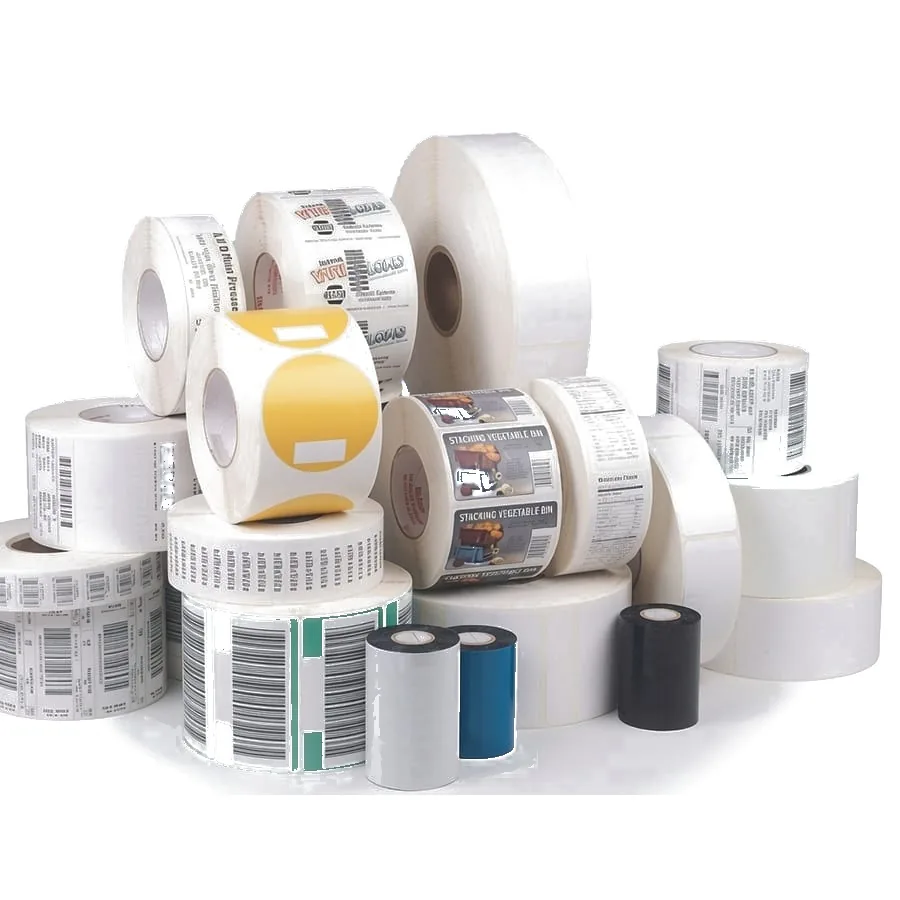
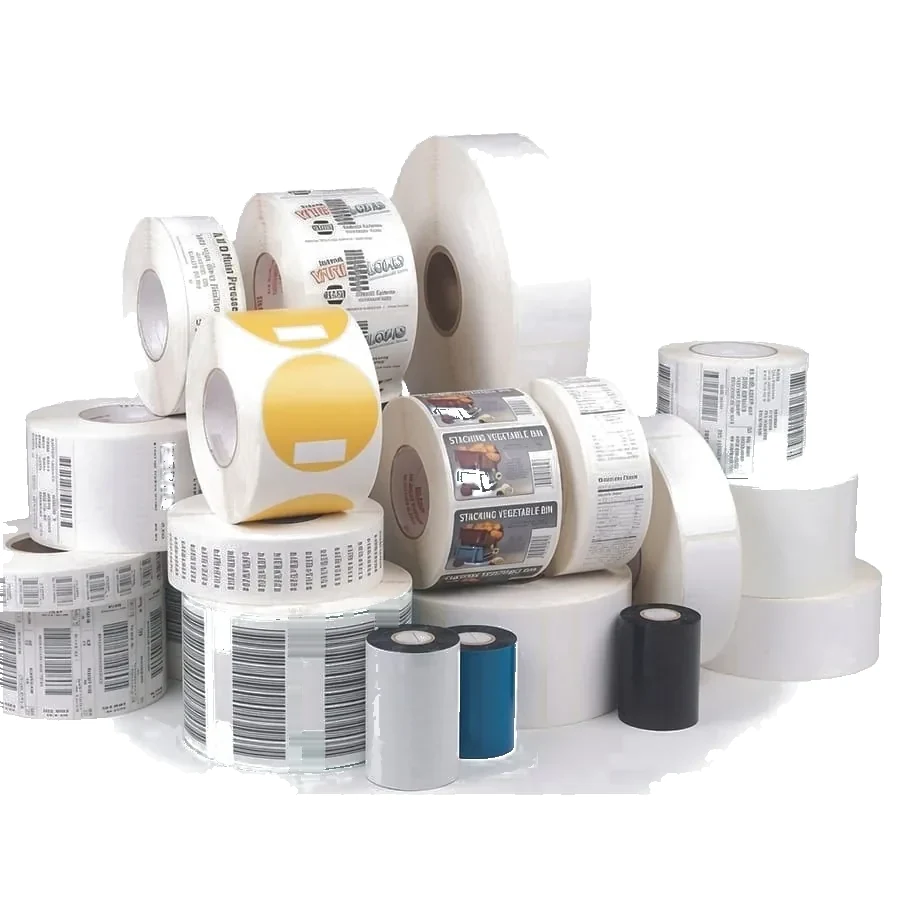
A talajárnyék lekerül a két Minilase-ról és a címkés képről (#227)
A gyártói fotókon a gép egy világosszürke „padlón" áll, és vet rá egy
elmosódó árnyékot. A weblapon viszont a termékkép fehér csempén ül, így az
árnyék nem talajt idéz, hanem piszkos foltnak látszik a csempe sarkában.

Küszöböléssel nem megy: az árnyék szürkéje (190–250) pontosan ugyanabba a
tartományba esik, mint a gép fehér burkolata (209–237) — a burkolat egy része
sötétebb, mint az árnyék világosabb része. Amiben viszont különböznek: az
árnyék SIMA, képpontonként néhány szintnyi változással, a gép körvonala
ezzel szemben lépcső. Ezért nem a fényesség, hanem a meredekség a határ: a
kitöltés a sima szürkén átfolyik, a gép élén megáll.

A küszöböt mérve állítottam be, nem becsülve. A burkolat bal oldalán van egy
képpontnyi lágy szakasz; 8-as küszöbnél a kitöltés ott beszökött a gépbe, és
kifehérítette az egész házat. 6-nál a gép épen marad.

A címketekercsek halmazánál ugyanez a küszöb már a tekercsekbe harapott —
fehér tekercs fehér háttéren, lágy körvonallal. Ott 3 a legtöbb, ami még kárt
nem tesz; ez a külső árnyékudvart viszi el. A tekercsek KÖZÖTTI árnyék marad,
mert azt semmilyen mérhető tulajdonság nem választja el a tekercsektől.

Ugyanezen a képen a vonalkódos tekercs oldalán négy türkiz téglalap állt.
A tekercs henger, a rajta lévő címkék a görbületet követik — ezek a foltok
viszont tengelyre állított, éles sarkú téglalapok voltak, fehér glóriával:
egy összemásolás maradványa, nem a címkék nyomata. A helyükre a saját soruk
[…]

diff --git a/scripts/talaj-arnyek-eltavolitas.py b/scripts/talaj-arnyek-eltavolitas.py
@@ -1,0 +1,121 @@
+#!/usr/bin/env python3
+"""
+Padlóárnyék eltávolítása termékfotóról.
+
+A gyártói fotók egy részén a gép egy világosszürke „padlón" áll, és vet rá
+egy elmosódó árnyékot. A weblapon viszont a termékkép fehér csempén ül, így
+az árnyék nem talajt idéz, hanem piszkos foltnak látszik a kép sarkában.
+
+Miért nem elég küszöbölni: az árnyék szürkéje (190–250) pontosan ugyanabba a
+tartományba esik, mint a gép fehér burkolata (209–237). Fényesség alapján a
+kettő nem választható szét — a burkolat egy része sötétebb, mint az árnyék
+világosabb része.
+
+Amiben viszont különböznek: az árnyék SIMA. Elmosódó átmenet, képpontonként
+néhány szintnyi változással. A gép körvonala ezzel szemben lépcső: a fehér
+háttérről 255-ről 226-ra esik egy-két képpont alatt. Ezért nem a fényesség,
+hanem a MEREDEKSÉG a határ — a kitöltés a sima szürkén átfolyik, a gép élén
+megáll.
+"""
+import sys
+from pathlib import Path
+
+import numpy as np
+from PIL import Image
+from scipy import ndimage
+
+# Efölött a fényesség fölött lehet háttér vagy árnyék. A gép legsötétebb
+# burkolatrésze 209, tehát a küszöb nem mehet feljebb 200-nál sem, mert akkor
+# a burkolatot is elnyelné — 185 kényelmes tartalékot hagy.
+VILAGOS_KUSZOB = 185
+# Efölött a meredekség fölött él van, ott a kitöltés megáll. Az árnyék belső
+# meredeksége 0–4, a gép körvonaláé 15–50. A 6 azért nem 8 vagy 10: a burkolat
+# bal oldalán van egy képpontnyi lágy szakasz (249-es érték, 0,8 meredekség),
+# amin a magasabb küszöbű kitöltés beszökött a gépbe, és kifehérítette az egész
+# házat. Mérve, nem becsülve: 8-nál a burkolat eltűnt, 6-nál épen maradt.
+EL_KUSZOB = 6
+# A gát egy képpontnyi réseit összezárjuk, hogy a lágy szakaszok ne engedjék át
+# a kitöltést.
+GAT_ZARAS = 1
+# A megmaradó él-képpontokat ennyivel tágítjuk, hogy az árnyék pereme se
+# maradjon ott halvány keretként.
+PEREM_TAGITAS = 2
+
+
+def arnyek_nelkul(kep: Image.Image, el_kuszob: int = EL_KUSZOB) -> Image.Image:
+    a = np.asarray(kep.convert('RGB')).astype(np.int16)
+    vilagossag = a.max(2).astype(float)
+
+    # Meredekség: a két irányú különbség nagysága.
+    dy = ndimage.sobel(vilagossag, 0)
+    dx = ndimage.sobel(vilagossag, 1)
+    meredek = np.hypot(dx, dy) / 4.0
+
+    # A gát: sötét képpont vagy él. Ezen a kitöltés nem jut át.
+    gat = (vilagossag < VILAGOS_KUSZOB) | (meredek >= el_kuszob)
+    if GAT_ZARAS:
+        gat = ndimage.binary_closing(gat, np.ones((3, 3)), iterations=GAT_ZARAS)
+
+    # Kitöltés a kép szélétől: ami innen elérhető, az háttér vagy árnyék.
+    cimke, _ = ndimage.label(~gat)
+    szeli = set(cimke[0].tolist()) | set(cimke[-1].tolist())
+    szeli |= set(cimke[:, 0].tolist()) | set(cimke[:, -1].tolist())
+    szeli.discard(0)
+    hatter = np.isin(cimke, list(szeli))
+
+    # Az árnyék pereme meredekebb, mint a belseje, ezért kimarad a kitöltésből
+    # és halvány keretként ottmaradna. A háttérré nyilvánított területet ezért
+    # kitágítjuk — de csak olyan képpontokra, amik maguk is világosak.
+    tagitott = ndimage.binary_dilation(hatter, iterations=PEREM_TAGITAS)
+    hatter = tagitott & (vilagossag >= VILAGOS_KUSZOB)
+
+    ki = a.copy()
+    ki[hatter] = 255
+
+    # Takarítás: az árnyék pereme néhány vékony csíkban és pontban túléli a
+    # kitöltést, mert a saját meredeksége zárta el az utat. Ezek a maradványok
+    # nem érnek hozzá a géphez, tehát elég a legnagyobb összefüggő nem-fehér
+    # területet — magát a gépet — megtartani, a többit kifehéríteni.
+    marad = np.asarray(ki).max(2) < 250
+    cimke2, db = ndimage.label(marad, np.ones((3, 3)))
+    if db > 1:
+        meretek = ndimage.sum(marad, cimke2, range(1, db + 1))
+        gep = int(np.argmax(meretek)) + 1
+        ki[marad & (cimke2 != gep)] = 255
+
+    return Image.fromarray(ki.astype(np.uint8))
+
+
+def main(ervek: list[str]) -> None:
+    """Használat: talaj-arnyek-eltavolitas.py [--el N] kép.webp …
+
+    Az `--el` a fenti EL_KUSZOB felülírása. Azért állítható, mert a küszöböt a
+    kép tárgya szabja meg: a magányos, sötét részekkel bíró gépnél 6 a jó
+    érték, a fehér címketekercsek halmazánál viszont már 4-nél is beleharap a
+    kitöltés a tekercsekbe — ott 3 a legtöbb, ami még kárt nem tesz.
+    """
+    el = EL_KUSZOB
+    utvonalak = []
+    i = 0
+    while i < len(ervek):
+        if ervek[i] == '--el':
+            el = int(ervek[i + 1])
+            i += 2
+        else:
+            utvonalak.append(ervek[i])
+            i += 1
+
+    for u in utvonalak:
+        p = Path(u)
+        eredeti = Image.open(p)
+        elotte = np.asarray(eredeti.convert('RGB')).astype(int)
+        uj = arnyek_nelkul(eredeti, el)
+        utana = np.asarray(uj).astype(int)
+        valtozott = (elotte != utana).any(2).sum()
+        uj.save(p, 'WEBP', quality=88, method=6)
+        print(f'{p.name} (él={el}): {valtozott} képpont fehérre '
+              f'({valtozott / elotte[..., 0].size * 100:.1f}%), {p.stat().st_size / 1024:.1f} kB')
+
+
+if __name__ == '__main__':
+    main(sys.argv[1:])

diff --git a/scripts/cimke-kep-zoldfolt.py b/scripts/cimke-kep-zoldfolt.py
@@ -1,0 +1,81 @@
+#!/usr/bin/env python3
+"""
+A „Címkék és festékszalagok" kép vonalkódos tekercsén lévő műtermék javítása.
+
+Mit lát a látogató: a tekercs oldalán négy türkiz téglalap. Miért hiba: a
+tekercs henger, a rajta lévő címkék a görbületet követik — a türkiz foltok
+viszont tengelyre állított, éles sarkú téglalapok, körülöttük fehér glóriával.
+Nem a címkék nyomata, hanem utólag a képre illesztett folt: egy összemásolás
+maradványa.
+
+A javítás: a foltokat a saját soruk két oldalán lévő ép képpontokból töltjük
+ki. Ezek a foltok egy függőleges, nyomatlan sávban ülnek a tekercsen, tehát a
+kitöltés eredménye sima világosszürke csík — pontosan az, aminek ott lennie
+kell: a címkeszalag nyomatlan margója.
+
+A maszkot három képponttal tágítjuk, mert a foltok körüli fehér glória is a
+műtermék része; nélküle a folt eltűnne, a kerete viszont ottmaradna.
+"""
+import sys
+from pathlib import Path
+
+import numpy as np
+from PIL import Image
+from scipy import ndimage
+
+MASZK_TAGITAS = 3
+SIMITAS = 1.2
+
+
+def zoldfolt_maszk(a: np.ndarray) -> np.ndarray:
+    r, g, b = a[..., 0], a[..., 1], a[..., 2]
+    # Türkiz: a zöld csatorna érdemben a vörös fölött van, és a kék fölött is.
+    # A felső korlát azért kell, hogy a fényes fehér ne kerüljön bele.
+    zold = (g > r + 15) & (g > b + 5) & (g > 80) & (g < 200)
+    return ndimage.binary_dilation(zold, np.ones((3, 3)), iterations=MASZK_TAGITAS)
+
+
+def javit(kep: Image.Image) -> Image.Image:
+    a = np.asarray(kep.convert('RGB')).astype(float)
+    maszk = zoldfolt_maszk(a)
+    if not maszk.any():
+        return kep.convert('RGB')
+
+    ki = a.copy()
+    sorok = np.where(maszk.any(1))[0]
+    for y in sorok:
+        sor = maszk[y]
+        ep = np.where(~sor)[0]
+        if not ep.size:
+            continue
+        for x in np.where(sor)[0]:
+            bal = ep[ep < x]
+            jobb = ep[ep > x]
+            minta = []
+            if bal.size:
+                minta.append(a[y, bal[-1]])
+            if jobb.size:
+                minta.append(a[y, jobb[0]])
+            if minta:
+                ki[y, x] = np.mean(minta, 0)
+
+    # A soronkénti kitöltés függőlegesen csíkos lehet; a foltok BELSEJÉT
+    # elsimítjuk. A pereme marad éles, hogy a környező vonalkód ne mosódjon el.
+    belso = ndimage.binary_erosion(maszk, np.ones((3, 3)), iterations=1)
+    ki[belso] = ndimage.gaussian_filter(ki, (SIMITAS, SIMITAS, 0))[belso]
+    return Image.fromarray(np.clip(ki, 0, 255).astype(np.uint8))
+
+
+def main(utvonalak: list[str]) -> None:
+    for u in utvonalak:
+        p = Path(u)
+        eredeti = Image.open(p)
+        elotte = np.asarray(eredeti.convert('RGB')).astype(float)
+        db = zoldfolt_maszk(elotte).sum()
+        javit(eredeti).save(p, 'WEBP', quality=88, method=6)
+        print(f'{p.name}: {db} képpontnyi türkiz folt és glóriája kitöltve, '
+              f'{p.stat().st_size / 1024:.1f} kB')
+
+
+if __name__ == '__main__':
+    main(sys.argv[1:])
